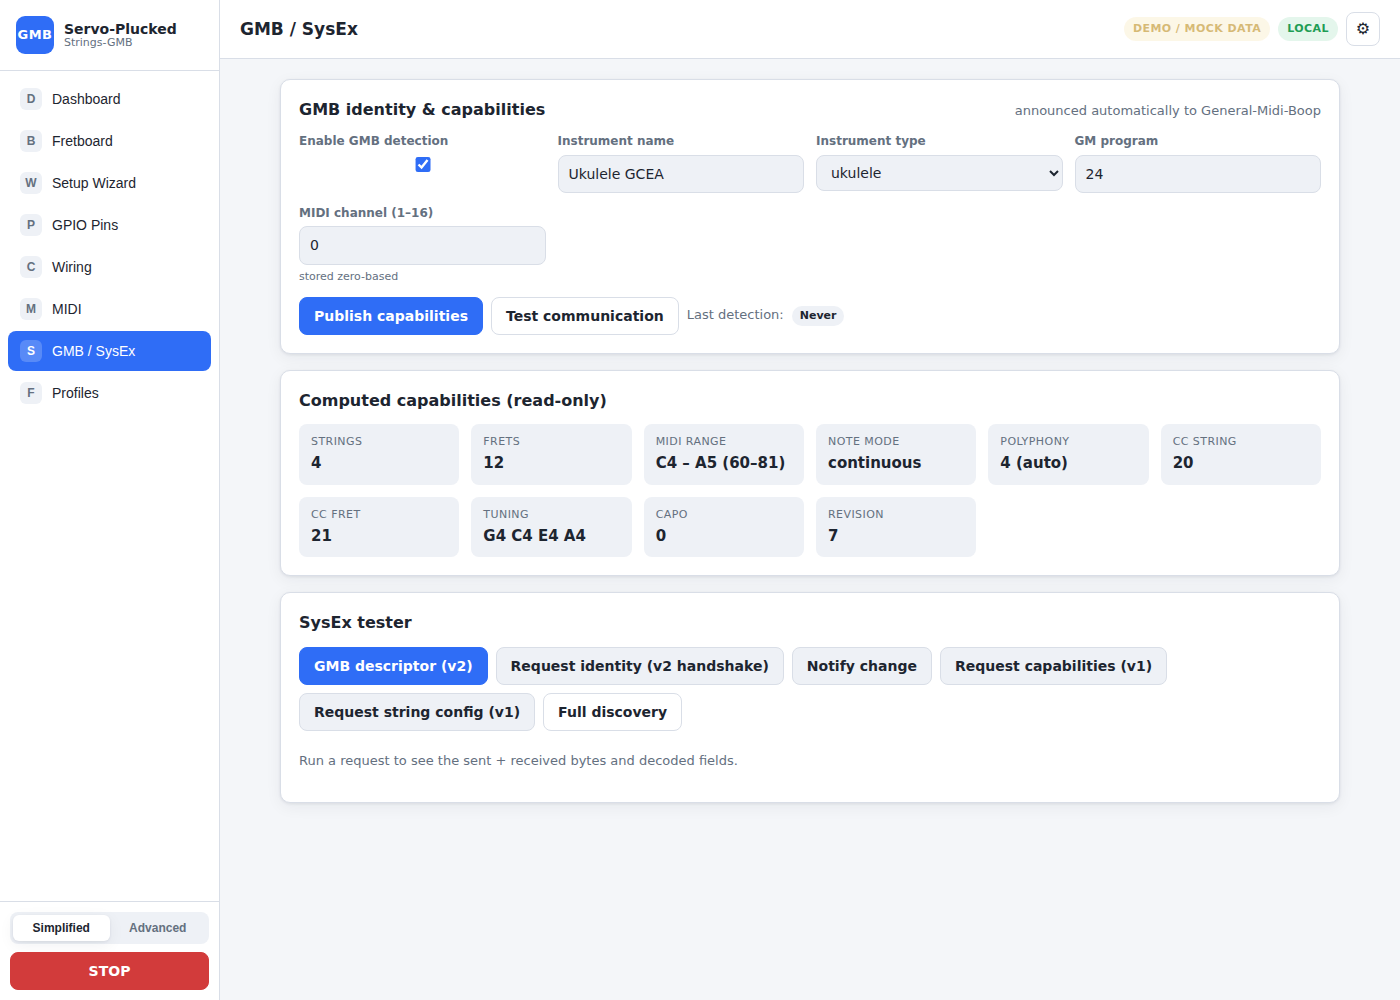
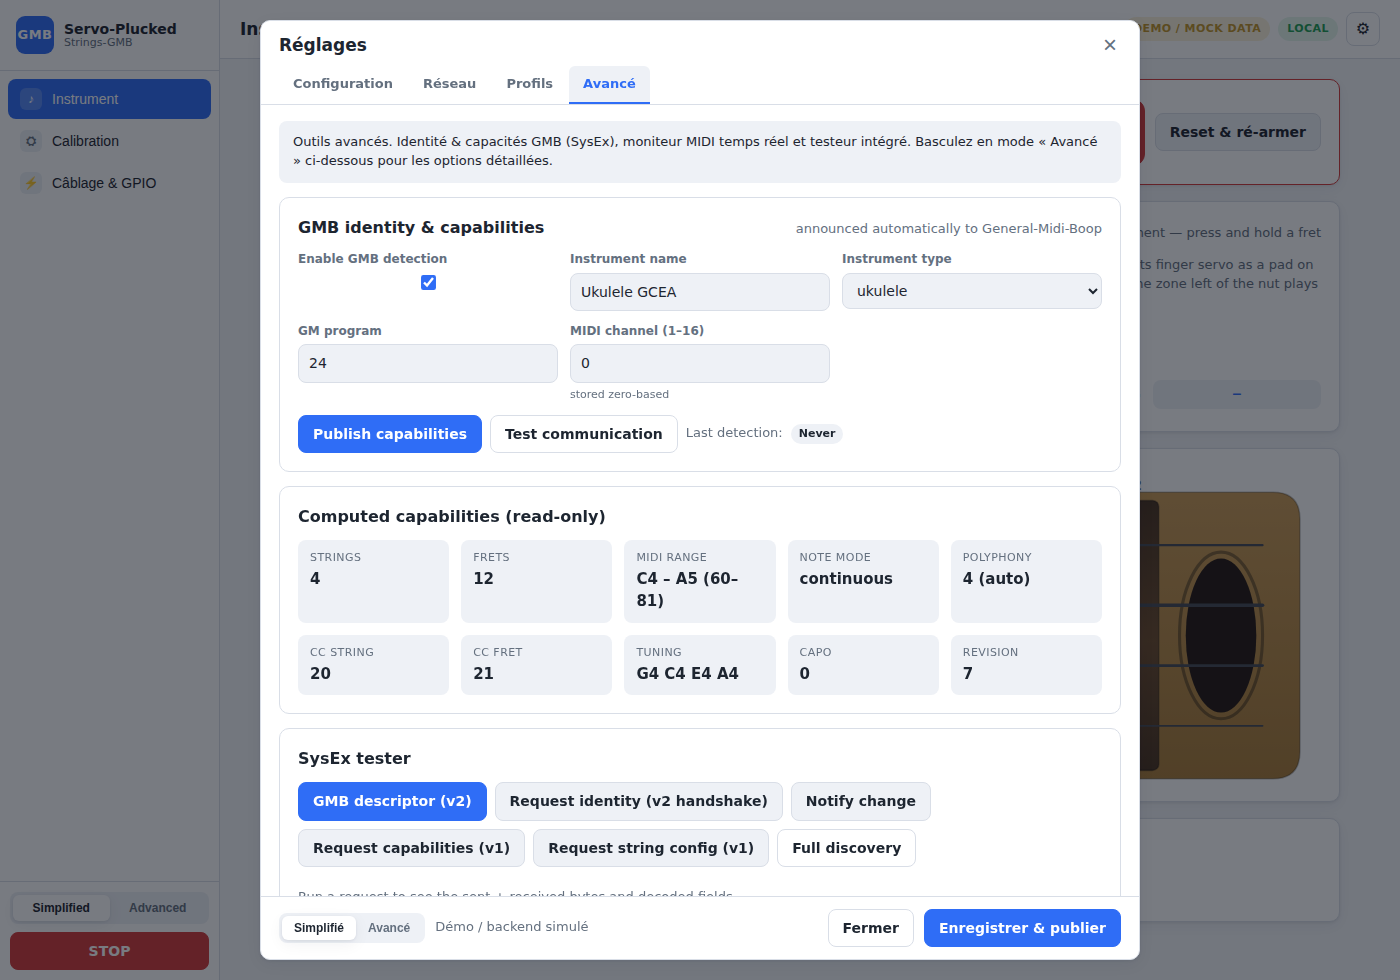
docs: refresh web-interface screenshots for the redesigned UI
Regenerate every overview screenshot from the new three-page + Settings-modal
layout (standalone mock, 4-string GCEA ukulele), and rework the docs gallery to
match:

- fretboard.png  -> Instrument page (playable neck + emergency stop)
- calibration.png-> Calibration page (Frettes / Grattage / Test)  [new]
- wiring.png     -> Câblage & GPIO — wiring diagram sub-tab
- pins.png       -> Câblage & GPIO — GPIO grid sub-tab
- wizard.png     -> Settings > Configuration (all wizard pages)
- midi.png       -> Settings > Configuration > MIDI page
- sysex.png      -> Settings > Avancé (GMB identity & capabilities + SysEx)
- profiles.png   -> Settings > Profils
- remove dashboard.png (the dashboard was dropped)

docs/WEB_INTERFACE.md §3.0 gallery updated to the new structure. The README
wiring-map reference keeps its filename, so it now shows the current view.

Claude-Session: https://claude.ai/code/session_015PWH6PkVD5zBStjdUTLyYe

diff --git a/docs/WEB_INTERFACE.md b/docs/WEB_INTERFACE.md
@@ -82,34 +82,40 @@ The per-fret contact-angle calibration on the Frets step is detailed in
 
 ## 3. Interface pages
 
-### 3.0 The eight pages at a glance
+### 3.0 The interface at a glance
 
-Overview of every page (standalone **demo data** — a 4-string GCEA ukulele,
+Overview of the interface (standalone **demo data** — a 4-string GCEA ukulele,
 Simplified mode). All views are **adaptive**: they redraw from the active profile.
+The interface keeps only **three main pages** in the sidebar; every other setting
+lives in the **Settings** modal (the gear button, top-right).
 
-**Dashboard** — live state, Wi-Fi / MIDI source, per-string status, faults, STOP.
-<p align="center"><img src="../img/screenshots/dashboard.png" alt="Dashboard view" width="100%"/></p>
+#### Main pages
 
-**Fretboard** — playable neck drawn to scale (equal temperament); press-and-hold a fret to sound the string.
-<p align="center"><img src="../img/screenshots/fretboard.png" alt="Fretboard view" width="100%"/></p>
+**Instrument** — playable neck drawn to scale (equal temperament); press-and-hold a fret to sound the string. A prominent emergency **STOP** sits at the top.
+<p align="center"><img src="../img/screenshots/fretboard.png" alt="Instrument page" width="100%"/></p>
 
-**Setup Wizard** — mechanical Instrument Builder: type, tuning, fretting, sounding, I²C-bus split, generate wiring.
-<p align="center"><img src="../img/screenshots/wizard.png" alt="Setup Wizard — Builder step" width="100%"/></p>
+**Calibration** — the physical servo tuning + test bench: per-fret contact angle (Frettes), plucking (Grattage) and Test.
+<p align="center"><img src="../img/screenshots/calibration.png" alt="Calibration page" width="100%"/></p>
 
-**GPIO Pins** — board GPIO map + per-signal assignment (I²C SDA/SCL, /OE, and the optional second bus).
-<p align="center"><img src="../img/screenshots/pins.png" alt="GPIO Pins view" width="100%"/></p>
+**Câblage & GPIO** — the hardware page (two sub-tabs). The adaptive ESP32 + PCA9685 harness map: one or two I²C buses, boards at their address, per-pin string·role, live conflict checks, SVG export…
+<p align="center"><img src="../img/screenshots/wiring.png" alt="Wiring map (Câblage sub-tab)" width="100%"/></p>
 
-**Wiring** — adaptive ESP32 + PCA9685 harness map: one or two I²C buses, boards at their address, per-pin string·role, live conflict checks, SVG export.
-<p align="center"><img src="../img/screenshots/wiring.png" alt="Wiring map view" width="100%"/></p>
+…and the board GPIO map + per-signal assignment (I²C SDA/SCL, /OE, optional second bus).
+<p align="center"><img src="../img/screenshots/pins.png" alt="GPIO grid (Broches GPIO sub-tab)" width="100%"/></p>
 
-**MIDI** — string/fret CC selection, playback parameters and the integrated note test.
-<p align="center"><img src="../img/screenshots/midi.png" alt="MIDI page" width="100%"/></p>
+#### Settings modal (gear button)
 
-**GMB / SysEx** — GMB identity & computed capabilities + the SysEx tester.
-<p align="center"><img src="../img/screenshots/sysex.png" alt="GMB / SysEx page" width="100%"/></p>
+**Configuration** — the instrument-configuration wizard with **every page** reachable: Instrument → MIDI → Alimentation → Validation.
+<p align="center"><img src="../img/screenshots/wizard.png" alt="Settings — Configuration wizard" width="100%"/></p>
 
-**Profiles** — save / load / copy / rename / export / import profile slots.
-<p align="center"><img src="../img/screenshots/profiles.png" alt="Profiles page" width="100%"/></p>
+**MIDI** — string/fret CC selection and playback parameters (a page of the config wizard).
+<p align="center"><img src="../img/screenshots/midi.png" alt="Settings — MIDI page" width="100%"/></p>
+
+**Avancé** — GMB identity & computed capabilities + the SysEx tester, and the live MIDI monitor.
+<p align="center"><img src="../img/screenshots/sysex.png" alt="Settings — Avancé (GMB / SysEx)" width="100%"/></p>
+
+**Profils** — save / load / copy / rename / export / import profile slots.
+<p align="center"><img src="../img/screenshots/profiles.png" alt="Settings — Profils" width="100%"/></p>
 
 ### 3.1 Dashboard (§19)
 
